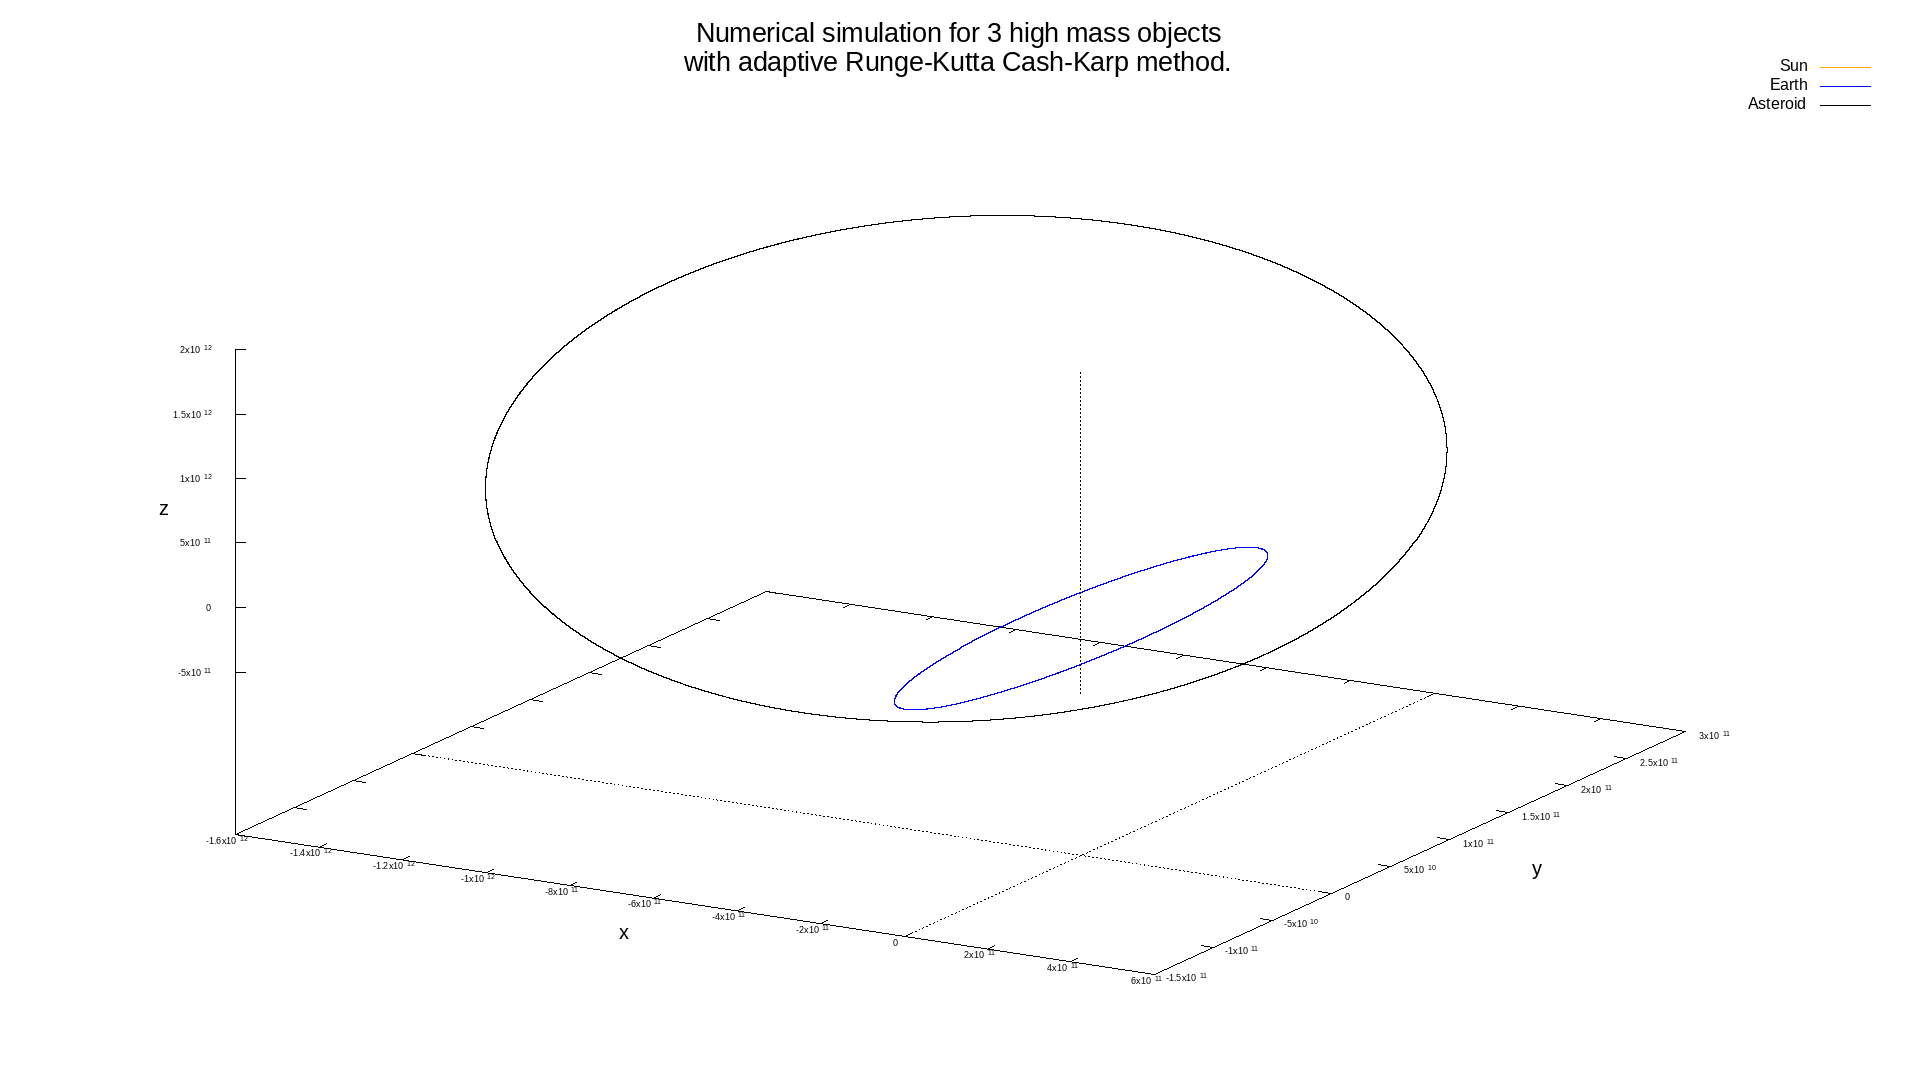
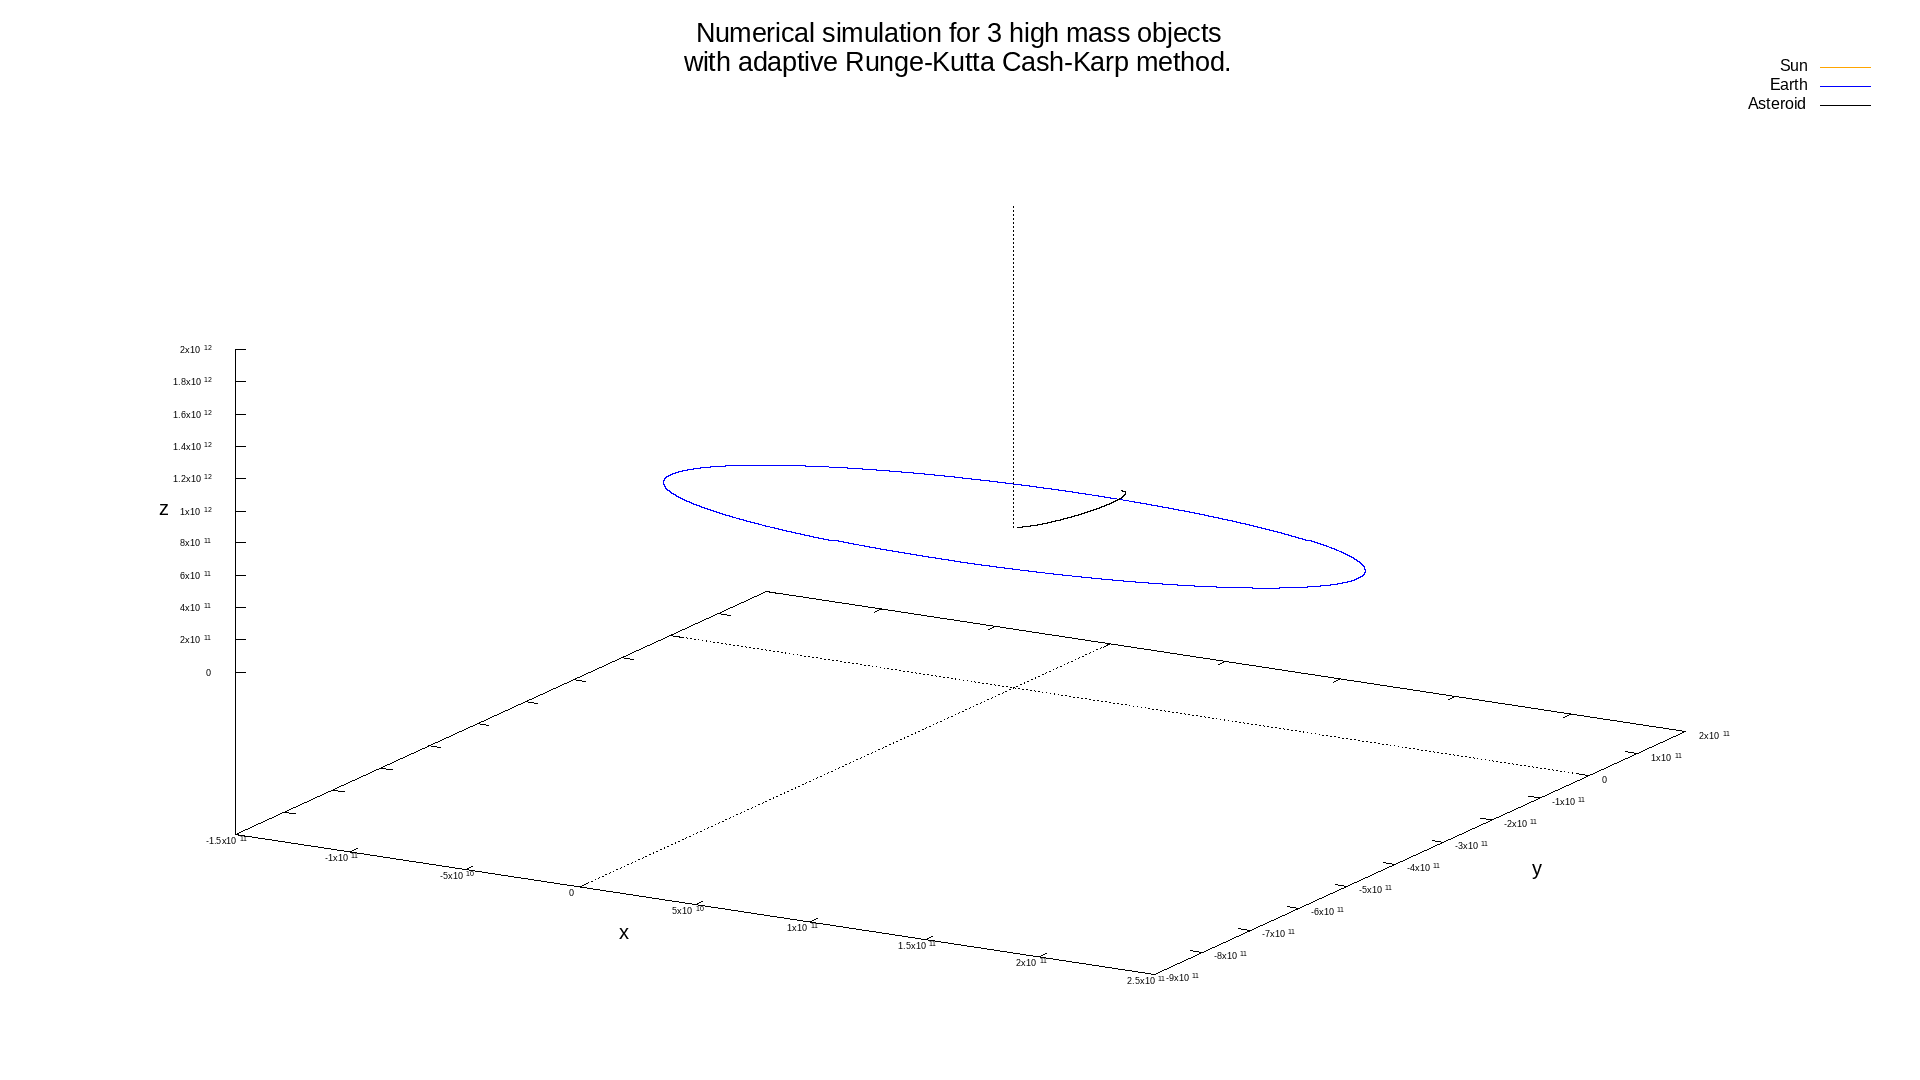
minor changes

diff --git a/main.cpp b/main.cpp
@@ -216,9 +216,9 @@ int main(int, char**)
 
     //integration of ODEs
     const double t0=0.;
-    const double t1=1e9;
+    const double t1=2e9;
     const double h=1e4;
-    const double delta0=1e-9;
+    const double delta0=1e-8;
     const int N=1000;
     int trg=0;
 
